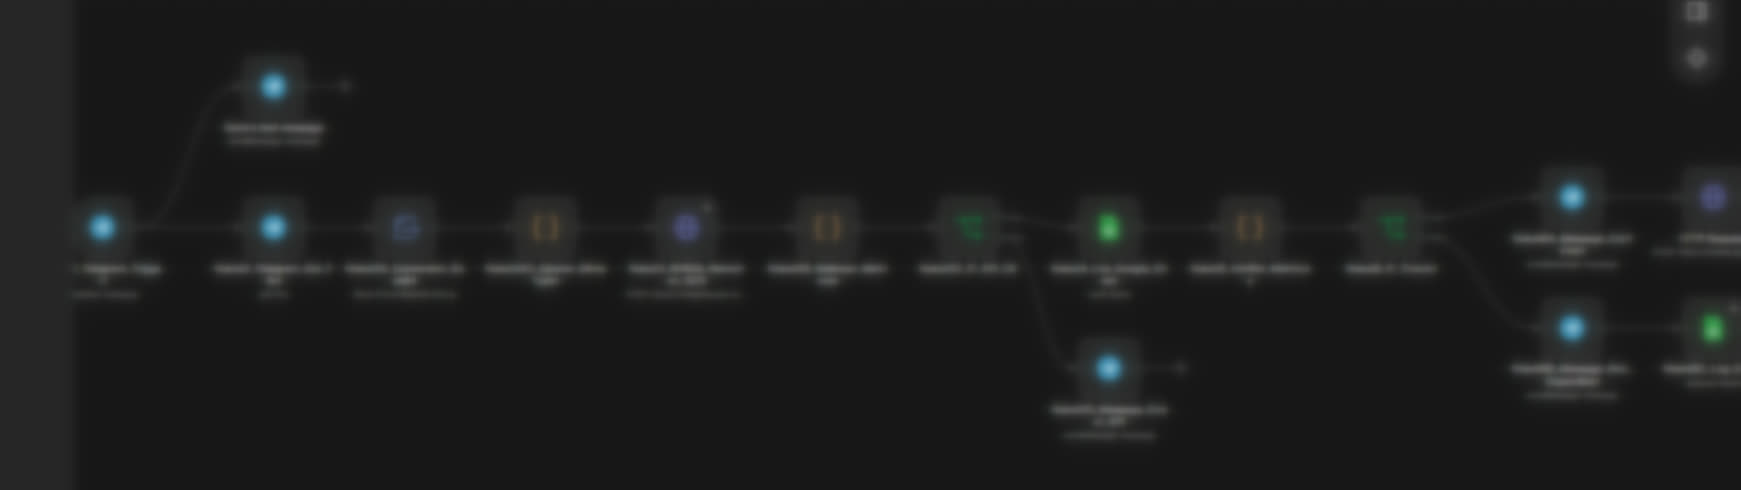
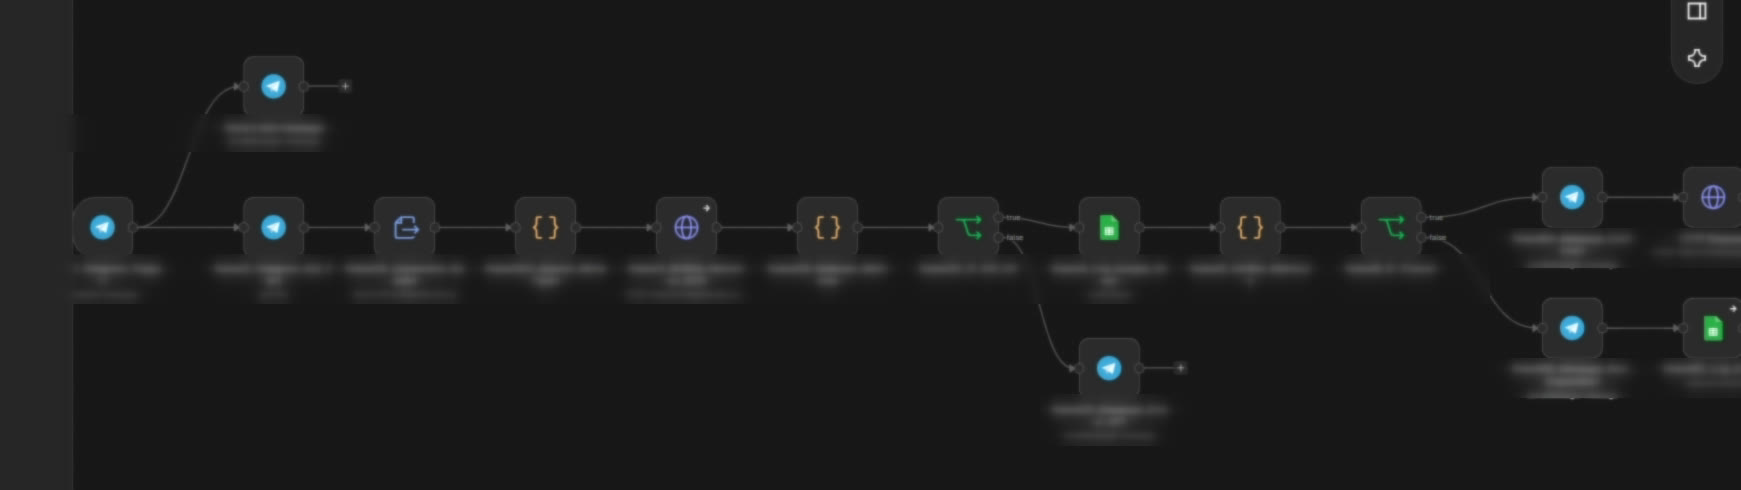
Retrait du suivi des DUM et de l'essai, workflow n8n en image principale, Somatime refait de zéro, vibe coding et design

diff --git a/index.html b/index.html
@@ -141,6 +141,8 @@
             <li><span class="tile" style="--c:#4a70c2">IA</span>Intelligence artificielle</li>
             <li><span class="tile" style="--c:#1a3260">›_</span>Prompt engineering</li>
             <li><span class="tile" style="--c:#00618a">SQL</span>SQL</li>
+            <li><span class="tile" style="--c:#5b3cc4">&lt;/&gt;</span>Vibe coding</li>
+            <li><span class="tile" style="--c:#b4441c">Aa</span>Design</li>
           </ul>
         </div>
         <div class="skill-group reveal">
@@ -214,26 +216,17 @@
           <div class="card-body">
             <p class="card-kind">Site web · Somatime</p>
             <h3>Site Somatime</h3>
-            <p class="card-text">Refonte complète du site de la Société Maritime d'Agadir.</p>
+            <p class="card-text">Le site de la Société Maritime d'Agadir, refait de zéro et développé par moi.</p>
             <div class="card-actions"><a href="https://somatime.ma" target="_blank" rel="noopener">Le site <span aria-hidden="true">↗</span></a><button type="button" data-open="d-somatime">Détails</button></div>
           </div>
         </li>
         <li class="card" data-kind="outil">
-          <picture><source type="image/webp" srcset="assets/img/capture-matricule-trouve.webp"><img class="pos-left-bottom" src="assets/img/capture-matricule-trouve.jpg" width="1071" height="627" loading="lazy" alt="Capture floutée : photo d'un conteneur envoyée à l'outil, qui répond « Conteneur trouvé »"></picture>
+          <picture><source type="image/webp" srcset="assets/img/capture-workflow-carte.webp"><img src="assets/img/capture-workflow-carte.jpg" width="960" height="720" loading="lazy" alt="Schéma flouté de l'automatisation n8n de vérification des matricules"></picture>
           <div class="card-body">
             <p class="card-kind">Outil interne · SNTC</p>
             <h3>Vérification des matricules</h3>
-            <p class="card-text">Un outil qui automatise la vérification des matricules de conteneurs.</p>
-            <div class="card-actions"><a href="#essai">Essayer <span aria-hidden="true">↓</span></a><button type="button" data-open="d-matricules">Détails</button></div>
-          </div>
-        </li>
-        <li class="card" data-kind="outil">
-          <picture><source type="image/webp" srcset="assets/img/port-agadir-quai-800.webp 800w, assets/img/port-agadir-quai.webp 1600w" sizes="(max-width: 899px) 100vw, 34vw"><img class="pos-right" src="assets/img/port-agadir-quai.jpg" width="1600" height="1069" loading="lazy" alt="Grues du port d'Agadir"></picture>
-          <div class="card-body">
-            <p class="card-kind">Prototype · SNTC</p>
-            <h3>Suivi des DUM</h3>
-            <p class="card-text">Un tableau qui suit chaque Déclaration Unique des Marchandises, étape par étape.</p>
-            <div class="card-actions"><button type="button" data-open="d-dum">Détails</button></div>
+            <p class="card-text">Une automatisation réalisée avec n8n qui vérifie les matricules de conteneurs.</p>
+            <div class="card-actions"><button type="button" data-open="d-matricules">Détails</button></div>
           </div>
         </li>
         <li class="card" data-kind="outil">
@@ -245,16 +238,7 @@
             <div class="card-actions"><button type="button" data-open="d-demandes">Détails</button></div>
           </div>
         </li>
-        <li class="card card-try" data-kind="outil">
-          <div class="card-body">
-            <p class="card-kind">À essayer ici</p>
-            <h3>Un matricule, un contrôle</h3>
-            <p class="card-text">Tapez un numéro de conteneur et voyez le calcul du chiffre de contrôle.</p>
-            <div class="card-actions"><a href="#essai">Ouvrir le vérificateur <span aria-hidden="true">↓</span></a></div>
-          </div>
-        </li>
       </ul>
-      <p class="work-foot">Capture du suivi des DUM à venir, avec les données sensibles floutées.</p>
     </section>
 
     <dialog class="sheet" id="d-sntc" aria-labelledby="d-sntc-t">
@@ -272,9 +256,9 @@
     <dialog class="sheet" id="d-somatime" aria-labelledby="d-somatime-t">
       <h3 id="d-somatime-t">Site Somatime</h3>
       <p class="sheet-meta">Somatime Agadir · Société maritime</p>
-      <p>Refonte complète du site de Somatime, Société Maritime d'Agadir.</p>
+      <p>Le site de Somatime, Société Maritime d'Agadir, refait entièrement de zéro.</p>
       <dl class="psd">
-        <div><dt>Mon rôle</dt><dd>Refonte et développement du site, réalisés par moi.</dd></div>
+        <div><dt>Mon rôle</dt><dd>Nouveau site conçu et développé par moi, depuis zéro.</dd></div>
       </dl>
       <div class="sheet-actions"><a class="btn" href="https://somatime.ma" target="_blank" rel="noopener">somatime.ma <span aria-hidden="true">↗</span></a><button class="close" type="button">Fermer</button></div>
     </dialog>
@@ -282,12 +266,17 @@
     <dialog class="sheet" id="d-matricules" aria-labelledby="d-matricules-t">
       <h3 id="d-matricules-t">Vérification des matricules conteneurs</h3>
       <p class="sheet-meta">SNTC · Transit et douane · Automatisation</p>
-      <p>Un outil interne qui automatise la vérification des matricules de conteneurs.</p>
+      <p>Un outil interne, réalisé avec n8n, qui automatise la vérification des matricules de conteneurs.</p>
       <dl class="psd">
         <div><dt>Problème</dt><dd>Contrôler chaque matricule à la main prend du temps et laisse passer des erreurs.</dd></div>
         <div><dt>Solution</dt><dd>Une vérification automatique, intégrée au travail de l'équipe.</dd></div>
+        <div><dt>Outil</dt><dd>n8n</dd></div>
       </dl>
       <div class="sheet-shots">
+        <figure>
+          <picture><source type="image/webp" srcset="assets/img/capture-workflow-flou.webp"><img src="assets/img/capture-workflow-flou.jpg" width="1741" height="490" loading="lazy" alt="Schéma flouté des étapes de l'automatisation"></picture>
+          <figcaption>Les étapes de l'automatisation dans n8n, floutées.</figcaption>
+        </figure>
         <figure>
           <picture><source type="image/webp" srcset="assets/img/capture-matricule-trouve.webp"><img src="assets/img/capture-matricule-trouve.jpg" width="1071" height="627" loading="lazy" alt="Capture floutée : une photo de conteneur est envoyée, l'outil répond « Conteneur trouvé »"></picture>
           <figcaption>On envoie la photo d'un conteneur&nbsp;: l'outil lit le matricule et confirme qu'il est dans la liste.</figcaption>
@@ -296,24 +285,8 @@
           <picture><source type="image/webp" srcset="assets/img/capture-matricule-absent.webp"><img src="assets/img/capture-matricule-absent.jpg" width="900" height="707" loading="lazy" alt="Capture floutée : l'outil répond « Conteneur non disponible dans la liste »"></picture>
           <figcaption>Si le matricule n'est pas dans la liste, l'équipe est prévenue tout de suite.</figcaption>
         </figure>
-        <figure>
-          <picture><source type="image/webp" srcset="assets/img/capture-workflow-flou.webp"><img src="assets/img/capture-workflow-flou.jpg" width="1741" height="490" loading="lazy" alt="Schéma flouté des étapes de l'automatisation"></picture>
-          <figcaption>Les étapes de l'automatisation, floutées.</figcaption>
-        </figure>
       </div>
       <p class="pending">Matricules et détails internes floutés.</p>
-      <div class="sheet-actions"><a class="btn" href="#essai" data-close>Essayer la règle de contrôle <span aria-hidden="true">↓</span></a><button class="close" type="button">Fermer</button></div>
-    </dialog>
-
-    <dialog class="sheet" id="d-dum" aria-labelledby="d-dum-t">
-      <h3 id="d-dum-t">Tableau de suivi des DUM</h3>
-      <p class="sheet-meta">SNTC · Prototype · Suivi et reporting</p>
-      <p>Un tableau qui suit, étape par étape, chaque Déclaration Unique des Marchandises.</p>
-      <dl class="psd">
-        <div><dt>Problème</dt><dd>Savoir où en est une déclaration demande de recouper plusieurs sources.</dd></div>
-        <div><dt>Solution</dt><dd>Une vue unique des étapes de chaque DUM.</dd></div>
-      </dl>
-      <p class="pending">Capture à venir, avec les données sensibles floutées.</p>
       <div class="sheet-actions"><button class="close" type="button">Fermer</button></div>
     </dialog>
 
@@ -338,30 +311,6 @@
       <p class="pending">Capture faite avec des données fictives, puis floutée&nbsp;: aucune donnée client n'est visible.</p>
       <div class="sheet-actions"><button class="close" type="button">Fermer</button></div>
     </dialog>
-
-    <section class="block trial" id="essai" aria-labelledby="trial-title">
-      <h2 class="boxed reveal" id="trial-title">Essai</h2>
-      <div class="trial-grid">
-        <figure class="trial-photo reveal">
-          <picture>
-            <source type="image/webp" srcset="assets/img/port-agadir-quai-800.webp 800w, assets/img/port-agadir-quai.webp 1600w" sizes="(max-width: 899px) 100vw, 45vw">
-            <img src="assets/img/port-agadir-quai.jpg" width="1600" height="1069" loading="lazy" alt="Quais du port d'Agadir : navires à quai, grues et conteneurs">
-          </picture>
-          <figcaption>Quais du port d'Agadir · photo Niels Johannes, CC BY-SA 4.0</figcaption>
-        </figure>
-        <form class="check" id="check" novalidate>
-          <h3 class="check-title reveal">Un matricule, un contrôle</h3>
-          <p class="check-note reveal">Chaque conteneur porte un matricule selon la norme publique ISO 6346&nbsp;: 4 lettres, 6 chiffres et un chiffre de contrôle. Tapez un numéro pour le vérifier.</p>
-          <label class="check-label reveal" for="check-input">Matricule de conteneur</label>
-          <div class="check-field reveal">
-            <input id="check-input" name="matricule" type="text" autocomplete="off" autocapitalize="characters" spellcheck="false" maxlength="14" value="CSQU3054383" aria-describedby="check-result">
-            <button class="check-btn" type="submit" aria-label="Vérifier le matricule"><span aria-hidden="true">→</span></button>
-          </div>
-          <ol class="check-boxes" aria-hidden="true"></ol>
-          <p class="check-result" id="check-result" role="status" aria-live="polite">Le chiffre de contrôle se calcule à partir des 10 premiers caractères.</p>
-        </form>
-      </div>
-    </section>
 
     <section class="block path" id="parcours" aria-labelledby="path-title">
       <svg class="zigzag" aria-hidden="true"><use href="#i-zigzag"/></svg>
@@ -406,7 +355,7 @@
     <a class="to-top" href="#top"><span aria-hidden="true">︿</span>Haut de page</a>
     <a class="icon-btn icon-btn-dark" href="https://www.linkedin.com/in/bakas-youness" target="_blank" rel="noopener" aria-label="LinkedIn de Youness Bakas"><svg aria-hidden="true"><use href="#i-linkedin"/></svg></a>
     <p>© 2026 Youness Bakas</p>
-    <p class="credits">Photos du port&nbsp;: <a href="https://commons.wikimedia.org/wiki/File:Agadir_port_2018.jpg" target="_blank" rel="noopener">N. Johannes</a>, <a href="https://commons.wikimedia.org/wiki/File:Port_of_Agadir_from_Kasbah_of_Agadir_Oufella.jpg" target="_blank" rel="noopener">Abdeaitali</a>, <a href="https://creativecommons.org/licenses/by-sa/4.0/deed.fr" target="_blank" rel="noopener">CC BY-SA 4.0</a></p>
+    <p class="credits">Photo du port&nbsp;: <a href="https://commons.wikimedia.org/wiki/File:Port_of_Agadir_from_Kasbah_of_Agadir_Oufella.jpg" target="_blank" rel="noopener">Abdeaitali</a>, <a href="https://creativecommons.org/licenses/by-sa/4.0/deed.fr" target="_blank" rel="noopener">CC BY-SA 4.0</a></p>
   </footer>
 
   <script src="assets/js/main.js" defer></script>

diff --git a/assets/css/style.css b/assets/css/style.css
@@ -81,7 +81,6 @@ button { font: inherit; color: inherit; }
 
 .pos-right { object-position: 80% 50%; }
 .pos-start { object-position: 0 0; }
-.pos-left-bottom { object-position: 88% 50%; }
 
 /* ---------- Pièces communes ---------- */
 
@@ -296,7 +295,7 @@ button { font: inherit; color: inherit; }
 .filters button:hover { color: var(--on-navy); }
 .filters button[aria-pressed="true"] { color: var(--on-navy); border-bottom-color: var(--accent-ink); }
 
-.grid { display: grid; grid-template-columns: repeat(3, minmax(0, 1fr)); }
+.grid { display: grid; grid-template-columns: repeat(2, minmax(0, 1fr)); }
 .card { position: relative; aspect-ratio: 4 / 3; overflow: hidden; background: var(--navy-2); }
 .card[hidden] { display: none; }
 .card img {
@@ -335,9 +334,6 @@ button { font: inherit; color: inherit; }
 .card-actions > :last-child { border-right: 2px solid var(--on-navy); }
 .card-actions a:hover, .card-actions button:hover { color: var(--accent-ink); }
 
-.card-try { background: var(--navy-2); }
-.card-try .card-body { background: none; justify-content: center; }
-.card-try .card-text, .card-try .card-actions { max-height: none; opacity: 1; transform: none; }
 
 .work-foot { padding: 20px var(--margin); text-align: center; font-size: var(--step-note); color: var(--on-navy-muted); }
 
@@ -367,66 +363,6 @@ button { font: inherit; color: inherit; }
   font-size: var(--step-label); font-weight: 600; letter-spacing: 0.16em; text-transform: uppercase; cursor: pointer;
 }
 @keyframes sheet-in { from { opacity: 0; transform: translateY(16px); } to { opacity: 1; transform: none; } }
-
-/* ---------- Essai ISO 6346 ---------- */
-
-.trial-grid {
-  max-width: 1120px; margin: 20px auto 0;
-  display: grid; grid-template-columns: repeat(2, minmax(0, 1fr)); gap: clamp(28px, 4vw, 64px);
-  align-items: center; text-align: left;
-}
-.trial-photo img { width: 100%; aspect-ratio: 4 / 3; object-fit: cover; }
-.trial-photo figcaption { margin-top: 10px; font-size: var(--step-label); color: var(--muted); }
-
-.check { display: grid; gap: 16px; }
-.check-title { font-family: var(--display); font-weight: 800; font-size: var(--step-title); line-height: 1.15; }
-.check-note { color: var(--muted); }
-.check-label { font-size: var(--step-label); font-weight: 700; letter-spacing: 0.14em; text-transform: uppercase; margin-bottom: -8px; }
-.check-field { position: relative; }
-.check-field input {
-  width: 100%; height: 64px;
-  padding: 0 70px 0 18px;
-  border: 2px solid var(--ink); border-radius: 0;
-  background: #fff; color: var(--ink);
-  font: 600 var(--step-lead)/1 var(--text);
-  letter-spacing: 0.1em; text-transform: uppercase;
-  font-variant-numeric: tabular-nums;
-}
-.check-field input:focus { outline: 2px solid var(--accent); outline-offset: 2px; }
-.check-btn {
-  position: absolute; right: 8px; top: 8px;
-  width: 48px; height: 48px; border: 0; border-radius: 0;
-  background: var(--navy); color: var(--on-navy);
-  font-size: var(--step-lead); cursor: pointer;
-  transition: background-color var(--t-hover) ease, transform var(--t-press) var(--ease-out);
-}
-.check-btn:hover { background: var(--accent-strong); }
-.check-btn:active { transform: scale(0.94); }
-
-.check-boxes {
-  display: grid; grid-template-columns: repeat(11, minmax(0, 1fr)); gap: 4px;
-  font-variant-numeric: tabular-nums;
-}
-.check-boxes:empty { display: none; }
-.check-boxes li {
-  display: grid; justify-items: center; gap: 2px;
-  padding: 10px 4px 8px;
-  background: #fff;
-  animation: box-in 420ms var(--ease-out) both;
-  animation-delay: calc(var(--i, 0) * 35ms);
-}
-.check-boxes b { font-weight: 700; font-size: var(--step-body); line-height: 1.2; }
-.check-boxes small { font-size: var(--step-label); color: var(--muted); }
-.check-boxes li.is-digit { background: var(--navy); color: var(--on-navy); }
-.check-boxes li.is-digit small { color: var(--on-navy); }
-.check-boxes li.is-wrong { background: var(--error); }
-.check-result { font-size: var(--step-note); color: var(--muted); }
-.check-result strong { font-weight: 700; color: var(--ink); }
-
-@keyframes box-in {
-  from { opacity: 0; transform: translateY(10px); }
-  to { opacity: 1; transform: none; }
-}
 
 /* ---------- Parcours ---------- */
 
@@ -550,7 +486,7 @@ button { font: inherit; color: inherit; }
 
   .feature-inner { margin-left: 0; }
 
-  .trial-grid, .path-cols, .contact-grid { grid-template-columns: minmax(0, 1fr); }
+  .path-cols, .contact-grid { grid-template-columns: minmax(0, 1fr); }
   .contact-photo { max-width: 360px; }
   .extras div { grid-template-columns: minmax(0, 1fr); gap: 4px; }
 }
@@ -565,8 +501,7 @@ button { font: inherit; color: inherit; }
   .card-actions { margin-left: -16px; }
   .card-actions > :first-child { border-left-color: transparent; }
   .card-actions > :last-child { border-right: 0; }
-  .card-try .card-body { height: 100%; justify-content: center; }
-}
+  }
 
 @media (max-width: 640px) {
   .grid { grid-template-columns: minmax(0, 1fr); gap: 2px; }
@@ -574,9 +509,6 @@ button { font: inherit; color: inherit; }
   .filters button { padding: 0 8px; letter-spacing: 0.08em; }
   .tiles { grid-template-columns: repeat(3, minmax(0, 1fr)); gap: 24px 8px; }
   .psd div { grid-template-columns: minmax(0, 1fr); gap: 2px; }
-  .check-boxes { gap: 3px; }
-  .check-boxes li { padding: 8px 2px 6px; }
-  .check-boxes b { font-size: 0.8125rem; }
   .boxed { padding: 10px 20px; }
   .topbar .topbar-name, .topbar .hide-sm { display: none; }
   .topbar-nav { width: 100%; justify-content: space-between; gap: 8px; }

diff --git a/assets/js/main.js b/assets/js/main.js
@@ -1,4 +1,4 @@
-// Portfolio — Youness Bakas : menus, filtres et fiches des projets, vérificateur ISO 6346, sans dépendance.
+// Portfolio — Youness Bakas : menus, filtres et fiches des projets, sans dépendance.
 (function () {
   const reduce = window.matchMedia('(prefers-reduced-motion: reduce)').matches;
 
@@ -101,67 +101,4 @@
     // Un clic sur le fond sombre ferme la fiche
     sheet.addEventListener('click', (e) => { if (e.target === sheet) sheet.close(); });
   });
-
-  // Vérificateur de matricule (norme ISO 6346)
-  const form = document.getElementById('check');
-  if (!form) return;
-  const input = form.querySelector('input');
-  const boxes = form.querySelector('.check-boxes');
-  const result = form.querySelector('.check-result');
-
-  // Valeurs des lettres : de 10 à 38, en sautant les multiples de 11
-  const values = {};
-  let v = 10;
-  for (const ch of 'ABCDEFGHIJKLMNOPQRSTUVWXYZ') {
-    if (v % 11 === 0) v++;
-    values[ch] = v++;
-  }
-
-  function check() {
-    const code = input.value.toUpperCase().replace(/[^A-Z0-9]/g, '');
-    boxes.innerHTML = '';
-
-    if (!/^[A-Z]{4}\d{7}$/.test(code)) {
-      result.innerHTML = code.length
-        ? 'Format attendu&nbsp;: 4 lettres puis 7 chiffres, par exemple CSQU3054383.'
-        : 'Tapez un matricule de 11 caractères.';
-      return;
-    }
-
-    let sum = 0;
-    const parts = [];
-    for (let i = 0; i < 10; i++) {
-      const ch = code[i];
-      const val = /\d/.test(ch) ? Number(ch) : values[ch];
-      sum += val * Math.pow(2, i);
-      parts.push([ch, val]);
-    }
-    const expected = (sum % 11) % 10;
-    const given = Number(code[10]);
-    const ok = expected === given;
-
-    parts.forEach(([ch, val], i) => {
-      const li = document.createElement('li');
-      li.style.setProperty('--i', i);
-      li.innerHTML = '<b>' + ch + '</b><small>' + val + '</small>';
-      boxes.appendChild(li);
-    });
-    const last = document.createElement('li');
-    last.className = 'is-digit' + (ok ? '' : ' is-wrong');
-    last.style.setProperty('--i', 10);
-    last.innerHTML = '<b>' + given + '</b><small>' + (ok ? 'ok' : expected) + '</small>';
-    boxes.appendChild(last);
-
-    const catNote = 'UJZ'.includes(code[3]) ? '' : ' La 4e lettre devrait être U, J ou Z.';
-    result.innerHTML = ok
-      ? '<strong>Matricule valide.</strong> Somme pondérée ' + sum + ', reste ' + (sum % 11) + '&nbsp;: le chiffre de contrôle est bien ' + expected + '.' + catNote
-      : '<strong>Matricule invalide.</strong> Le chiffre de contrôle devrait être ' + expected + ', pas ' + given + '.' + catNote;
-  }
-
-  form.addEventListener('submit', (e) => { e.preventDefault(); check(); });
-  input.addEventListener('input', () => {
-    const code = input.value.toUpperCase().replace(/[^A-Z0-9]/g, '');
-    if (code.length >= 11 || code.length === 0) check();
-  });
-  check();
 })();
